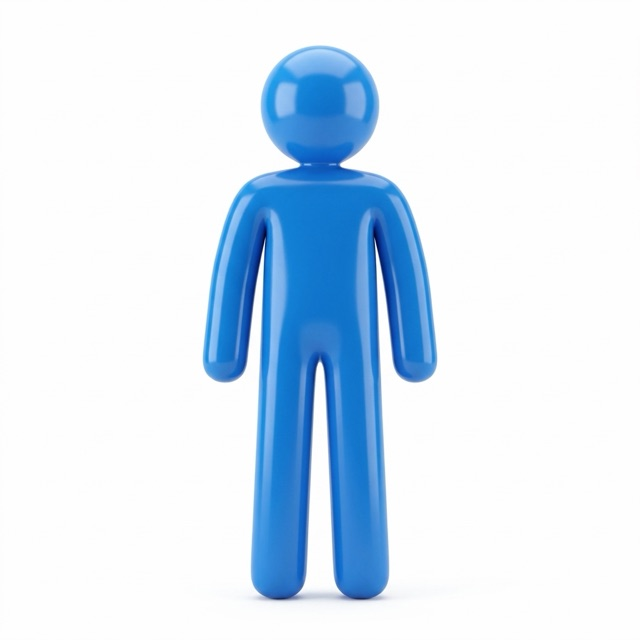
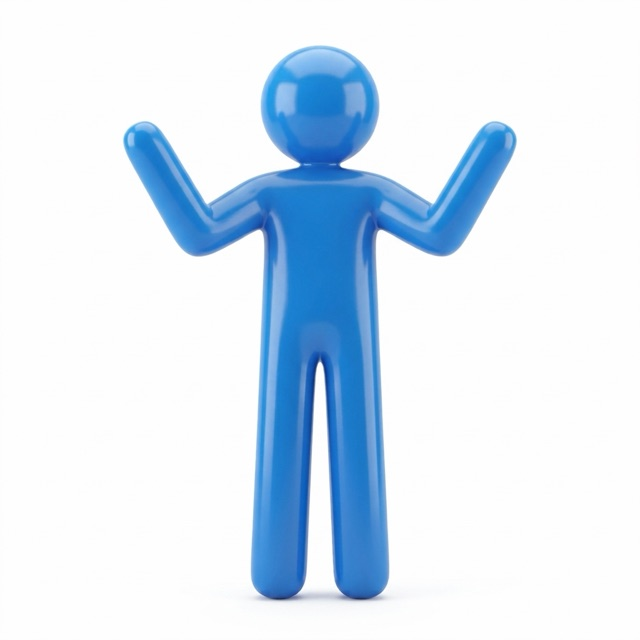
vision: "Relax your face. Smile when prompted." card, SMILE! cue, new arms picture
- Face instruction card text changed; a small "SMILE!" card appears at the top
  of the camera box when the smile phase starts.
- Arms guide: first picture is the arms-out-to-the-sides figure.
- Docs: STATUS, spec 02.

diff --git a/frontend/src/components/CameraView.tsx b/frontend/src/components/CameraView.tsx
@@ -123,6 +123,16 @@ export function CameraView({ guide, overlay, hideGuideWhileCapturing = true }: P
           </div>
         )}
 
+        {/* "SMILE!" cue: the moment the relax timer ends and the smile is due, a small card at the top of the camera box
+            says so, so the change of phase is impossible to miss. */}
+        {progress?.test === 'face' && progress.phase === 'smile' && (
+          <div className="absolute inset-x-3 top-3 flex justify-center">
+            <p className="pop rounded-full bg-accent px-7 py-2.5 text-3xl font-extrabold tracking-wide text-white shadow-[var(--shadow-lift)] sm:text-4xl" role="status">
+              SMILE!
+            </p>
+          </div>
+        )}
+
         {/* Instruction card, dead centre, before anything is measured (face / eyes). It is the ONLY thing asked of the
             patient during this beat, so it is big and solid; the check starts by itself when it goes away. */}
         {progress?.phase === 'intro' && progress.caption && (

diff --git a/frontend/src/components/test/ArmsTest.tsx b/frontend/src/components/test/ArmsTest.tsx
@@ -11,7 +11,7 @@ import { VisionRetryButton } from './VisionRetryButton'
 
 /** The two position-guiding pictures shown beside the camera. */
 const POSES = [
-  { src: '/images/arms-stand.jpg', alt: 'A figure standing tall with arms relaxed at the sides', caption: 'Stand tall, arms relaxed' },
+  { src: '/images/arms-stand.jpg', alt: 'A figure with both arms held out to the sides, elbows bent', caption: 'Arms out to your sides' },
   { src: '/images/arms-raise.jpg', alt: 'The same figure with both arms raised', caption: 'Then raise both arms' },
 ] as const
 

diff --git a/frontend/src/lib/vision/capture.ts b/frontend/src/lib/vision/capture.ts
@@ -286,7 +286,7 @@ export function createFaceCapture<F>(
 ): CaptureController<F> {
   return new CaptureController<F>({
     test: 'face',
-    introCaption: 'Get ready to smile. First relax your face, then smile as big as you can and hold it.',
+    introCaption: 'Relax your face. Smile when prompted.',
     waitCaption: 'Look at the camera',
     waitTimeoutFlag: "I couldn't see your face clearly. Let's try again.",
     steps: [

diff --git a/docs/spec/02-vision.md b/docs/spec/02-vision.md
@@ -27,7 +27,7 @@ Eyes records the labelled `EyeFrame[]` actually passed to `analyzeEyes`, with he
 ## Positioning: close for the face, back for the arms
 The face needs to fill enough of the frame for reliable landmarks; the arms test needs the whole upper body **and both hands** in frame. One camera can't do both, so the session is ordered **Eyes → Face → Arms → Speech** (`testSequence()` in `config.ts`): the patient starts close to the screen (~50–70 cm / arm's length; better landmarks), steps back **once** (~2 m / 6 ft) for the arms, then comes back close for speech (the speech screen tells them to). Eyes and face are both close-up, so their order is a UX choice; arms needs the far position.
 
-**Instruction card (face and eyes):** each of these checks first shows its instruction alone, centred in the camera box, for `CAPTURE_TIMING.introMs` (4 s), with a "Starting in N…" count. Phase `intro`: nothing is measured, the framing gate is not evaluated and its wait-timeout has not started. It is shown once per check per session, so an automatic or manual retry goes straight back in. Arms has no card (its 3-2-1 cue plays that role).
+**Instruction card (face and eyes):** each of these checks first shows its instruction alone, centred in the camera box, for `CAPTURE_TIMING.introMs` (4 s), with a "Starting in N…" count. Phase `intro`: nothing is measured, the framing gate is not evaluated and its wait-timeout has not started. For the face check the card reads "Relax your face. Smile when prompted.", and when the smile phase begins a small "SMILE!" card appears at the top of the camera box. It is shown once per check per session, so an automatic or manual retry goes straight back in. Arms has no card (its 3-2-1 cue plays that role).
 
 Before each test, run a **framing gate** (`frontend/src/lib/vision/framing.ts`, pure, already implemented + tested):
 - `checkFaceFraming(faceLandmarks)` — face width within 18–60 % of the frame and not touching an edge. Hints: "Move a little closer to the screen." / "Move back a little." / "Center your face in the view."

diff --git a/docs/STATUS.md b/docs/STATUS.md
@@ -45,6 +45,7 @@ Status values: `not started` · `in progress` · `blocked` · `done (untested li
 - All thresholds/weights are uncalibrated (see spec files). Calibrate on teammate fixtures around hour ~20.
 
 ## Recent changes (newest first)
+- 2026-09-19 — frontend/vision — smile check: the instruction card now reads "Relax your face. Smile when prompted.", and when the relax timer ends a small "SMILE!" card appears at the top of the camera box for the smile phase. Arms guide: first picture replaced with the arms-out-to-the-sides figure (caption "Arms out to your sides").
 - 2026-09-19 — frontend/vision — **eyes and face checks no longer start instantly**: a 4 s instruction card (solid blue, dead centre of the camera box, with a "Starting in N…" count) shows first; nothing is measured and the framing-wait timeout has not started until it goes. New `intro` capture phase (`CAPTURE_TIMING.introMs`, `introMs`/`introCaption` on the controller); shown once per check per session (retries skip it; cleared when the session returns to idle). Arms is unchanged (it already has its 3-2-1 cue). 3 new capture tests.
 - 2026-09-19 — voice-agent — the agent now goes silent (volume 0, mic muted) for the whole speech recording, driven by the recorder state so it also works when Start recording is pressed before the agent finishes talking or calls the tool; audio is restored when the run ends/cancels, and an unusable recording is announced by the agent if no tool call is waiting (`speechAudioGate.ts`, 6 tests). Not verified with a live conversation.
 - 2026-09-19 — frontend/ui — home <-> info scroll hand-off is 30% stiffer: 143 px wheel travel down / 221 px up (was 110 / 170); swipes 117 / 169 px.
